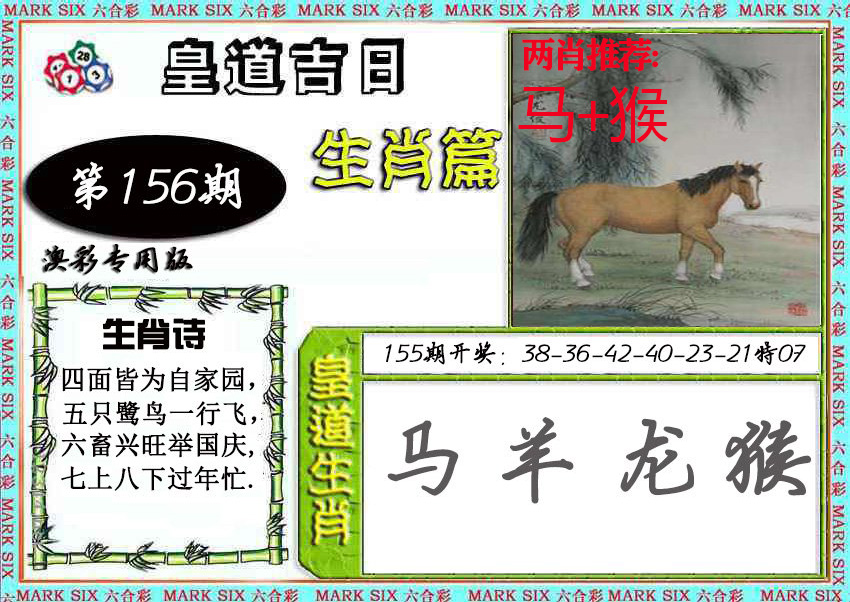
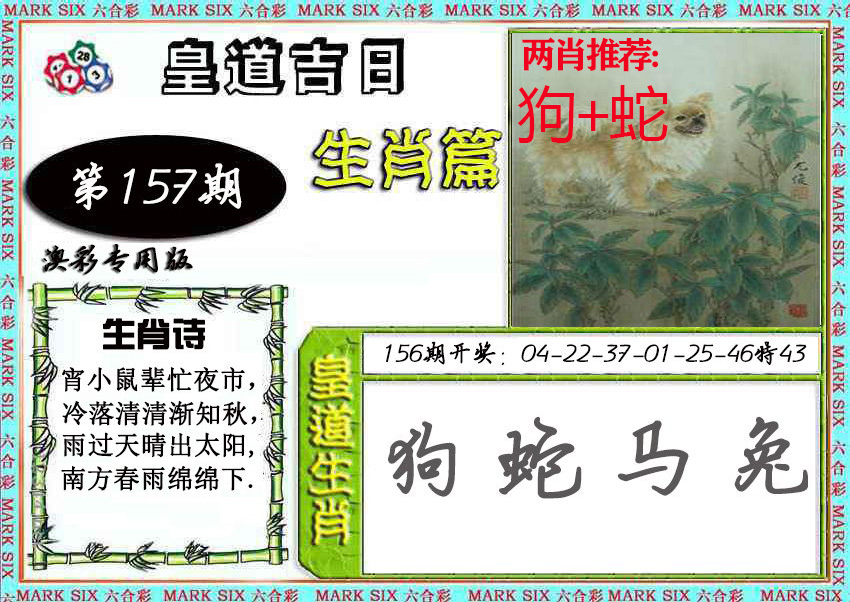
Update:  2023.06.06 02:26:04

diff --git a/Script/Src/xjw/管家婆解析.js b/Script/Src/xjw/管家婆解析.js
@@ -26,8 +26,8 @@ document.writeln("	");
 document.writeln("		<p align=\'left\'>");
 document.writeln("	");
 document.writeln("		<span><font size=\'4\'>157期:<font color=\'#008000\'>【精解管家婆一句话】</font><font color=\'#FF0000\'>开？00</font><font color=\'#008000\'><br>");
-document.writeln("		</font><font color=\'#6600CC\'>【更新中】【更新中】<br></font></font>");
-document.writeln("		<font color=\'#0000FF\' size=\'4\'>解：更新中。综合取肖</font><font color=\'#FF0000\' size=\'4\'>更新中</font><font color=\'#0000FF\' size=\'4\'>   本期平特更新中。<br>本期取码：更新中</td></tr>");
+document.writeln("		</font><font color=\'#6600CC\'>【今期生肖开土金】【猴年马月】<br></font></font>");
+document.writeln("		<font color=\'#0000FF\' size=\'4\'>解：今期生肖开土金解料：生肖开土金，土肖，龙狗牛羊，金肖，鸡猴。解肖：龙狗牛羊鸡猴。综合取肖</font><font color=\'#FF0000\' size=\'4\'>龙狗牛羊鸡猴</font><font color=\'#0000FF\' size=\'4\'>   本期平特猴月。<br>本期取码：12.24.06.42.15.27.21.33.19.31.32.44</td></tr>");
 document.writeln("		");
 document.writeln("");
 

diff --git a/Script/Src/xjw/传真九肖.js b/Script/Src/xjw/传真九肖.js
@@ -26,9 +26,9 @@ document.writeln("	");
 document.writeln("		<p align=\'left\'>");
 document.writeln("	");
 document.writeln("		<span><font size=\'4\'>157期:<font color=\'#008000\'>【澳门传真特围生肖】</font><font color=\'#FF0000\'>开？00</font><font color=\'#008000\'><br>");
-document.writeln("		</font><font color=\'#0000FF\'>更新中。<br>");
-document.writeln("		【更新中】</font><br><b><font color=\'#FF0000\'>");
-document.writeln("				特围生肖:更新中<br>主特六肖：更新中</font></b></font></td></tr>");
+document.writeln("		</font><font color=\'#0000FF\'>今期生肖土在头，梅花香自苦寒来。青山绿水好风光，六六大顺出特码。梁山好汉是英雄，三人四六出灵码。只手遮天是叛贼，木兰从军为父志。<br>");
+document.writeln("		【演古劝今】</font><br><b><font color=\'#FF0000\'>");
+document.writeln("				特围生肖:蛇马猴牛鸡羊兔龙<br>主特六肖：蛇马猴牛鸡羊</font></b></font></td></tr>");
 document.writeln("");
 
 document.writeln("	<tr>");
